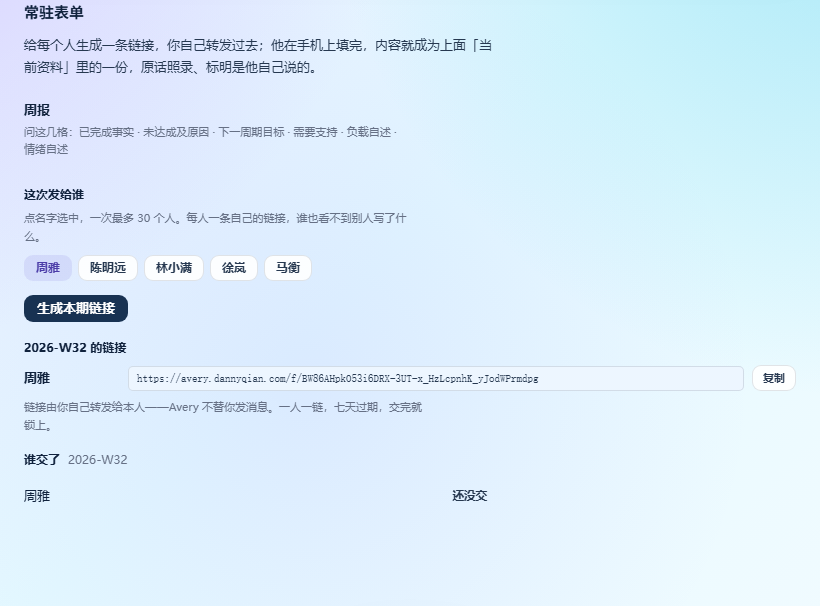
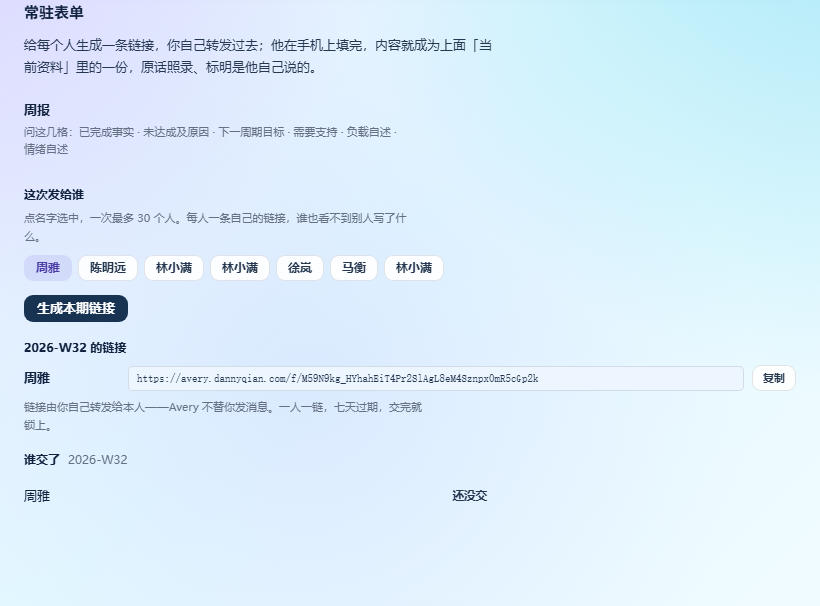
fix(#57): 规则 3.5——文档自己写了部门，就不该算「认不出主人」
上一条修复让工号第一次真的进了生产索引，于是 T5 的规则 3 第一次被触发：
同名歧义 + 这条读数没工号 → 另开一格。团队页上出现**第三张**「林小满」卡
（无职位、部门前厅部），与花名册里那位前厅部的看起来一模一样。

但触发它的那句话是纪要里的「参会：徐岚、周雅、陈明远、林小满（前厅部）」——
文档自己把话说清楚了：两位候选里只有一位在前厅部。这不是猜，是读。

规则 3.5：名字歧义、无工号、但读数带着非空部门时，若候选里**恰好一位**部门对得上，
就并进那一位；对上两位（同名又同部门）或一位都对不上，立刻退回规则 3 的老口径。
有二次判据就用，没有就不猜——绝不把「像谁」当成「是谁」。

门 +4（test_llm_extract.py）：部门对得上就并 / 对不上仍另开一格 / 没部门仍另开一格 /
同名又同部门时部门这把尺不许当身份。T6 的钉死门全绿＝老行为没被动到。
离线全套 3796 passed / 0 failed。

Changed region(s): [[0.2744, 0.4158, 0.5488, 0.4752], [0.3659, 0.5941, 0.6402, 0.6535]]

diff --git a/eval-harness/tests/test_llm_extract.py b/eval-harness/tests/test_llm_extract.py
@@ -353,3 +353,49 @@ def test_llm_same_name_without_staff_numbers_still_merges_as_before():
     people = _people_by_id(payload, _ROSTER_WITH_IDS)
     assert len(people) == 1
     assert people[0].person_id == ""
+
+
+# --- 0807 HITL 规则 3.5：文档自己写了部门，就不该算「认不出主人」 --------------------------------
+# 生产实测：花名册里两位「林小满」（SY-0422 前厅部 / SY-0906 康乐部）分开之后，纪要里那句
+# 「参会：…林小满（前厅部）」因为没带工号，撞上 T5 规则 3「同名歧义 + 无工号 → 另开一格」，
+# 于是团队页出现**第三张**林小满卡（无职位、部门前厅部）——两张看起来一模一样。
+# 但那份纪要自己写了部门：候选里恰好只有一位在前厅部。这不是猜，是读。
+
+def _index_with_two_lins():
+    from avery.ingest.extract import PersonEntity, PersonIndex
+    a = PersonEntity(id="u_lin_a", name="林小满", person_id="SY-0422", team="前厅部", role="前厅部经理")
+    b = PersonEntity(id="u_lin_b", name="林小满", person_id="SY-0906", team="康乐部", role="康乐部主管")
+    idx = PersonIndex([a, b])
+    return idx, a, b
+
+
+def test_ambiguous_name_with_matching_team_merges_into_that_one():
+    from avery.ingest.extract import PersonEntity
+    idx, a, b = _index_with_two_lins()
+    mention = PersonEntity(id="u_x", name="林小满", team="前厅部")     # 纪要里的那一句，没工号
+    key = idx.resolve(mention)
+    assert idx.slots.get(key) is a, "文档写了「（前厅部）」，候选里只有一位对得上——不该另开一格"
+
+
+def test_ambiguous_name_with_unmatched_team_still_opens_its_own_slot():
+    from avery.ingest.extract import PersonEntity
+    idx, a, b = _index_with_two_lins()
+    mention = PersonEntity(id="u_x", name="林小满", team="工程部")     # 谁都对不上
+    assert idx.slots.get(idx.resolve(mention)) is None                # 退回规则 3：另开一格
+
+
+def test_ambiguous_name_without_team_still_opens_its_own_slot():
+    from avery.ingest.extract import PersonEntity
+    idx, a, b = _index_with_two_lins()
+    mention = PersonEntity(id="u_x", name="林小满")                   # 没工号也没部门
+    assert idx.slots.get(idx.resolve(mention)) is None                # 没有二次判据就不猜
+
+
+def test_two_same_name_in_the_same_team_is_not_disambiguated_by_team():
+    """同名又同部门 → 部门这把尺子不够用，绝不许拿它当身份。"""
+    from avery.ingest.extract import PersonEntity, PersonIndex
+    a = PersonEntity(id="u_a", name="张伟", person_id="E-1", team="工程部")
+    b = PersonEntity(id="u_b", name="张伟", person_id="E-2", team="工程部")
+    idx = PersonIndex([a, b])
+    mention = PersonEntity(id="u_x", name="张伟", team="工程部")
+    assert idx.slots.get(idx.resolve(mention)) is None

diff --git a/eval-harness/avery/ingest/extract.py b/eval-harness/avery/ingest/extract.py
@@ -1884,6 +1884,8 @@ class PersonIndex:
         self.slots: dict[str, PersonEntity] = {}
         self._by_id: dict[str, str] = {}
         self._by_name: dict[str, str] = {}
+        # 同一个姓名底下的**全部**格子（规则 3.5 要在候选之间按部门挑，只记「第一格」不够用）。
+        self._name_keys: dict[str, list[str]] = {}
         self._dupe_names: set[str] = set()
         for p in people:
             self.place(self.resolve(p), p)
@@ -1900,6 +1902,19 @@ class PersonIndex:
             held = _person_id_key(self.slots[hit].person_id)
             if not (ik and held and ik != held):
                 return hit
+        # 规则 3.5（0807 HITL 补）：名字歧义、这条读数没工号，但**文档自己写了部门**。
+        # 花名册里两位「林小满」（前厅部 / 康乐部），纪要上写「参会：…林小满（前厅部）」——
+        # 这不是猜，是读：候选里恰好只有一位在前厅部，那句话说的就是她。
+        # 🔴 只在**恰好一位**候选对得上时才认；对上两位（同名又同部门）或一位都对不上，
+        #    立刻退回规则 3 的老口径（另开一格，宁可多一条认不出主人的记录）——
+        #    有二次判据就用，没有就不猜，绝不把「像谁」当成「是谁」。
+        if not ik and nk in self._dupe_names:
+            team = (p.team or "").strip()
+            if team:
+                same = [k for k in self._name_keys.get(nk, ())
+                        if (self.slots[k].team or "").strip() == team]
+                if len(same) == 1:
+                    return same[0]
         return f"#id:{ik}" if ik else f"#name:{nk}"
 
     def place(self, key: str, p: PersonEntity) -> None:
@@ -1910,6 +1925,7 @@ class PersonIndex:
         if _person_id_key(p.person_id):
             self._by_id[_person_id_key(p.person_id)] = key
         nk = _person_key(p.name)
+        self._name_keys.setdefault(nk, []).append(key)
         if nk in self._by_name:
             self._dupe_names.add(nk)     # 这个名字底下从此有两个人，不再是一把够用的尺
         else:
